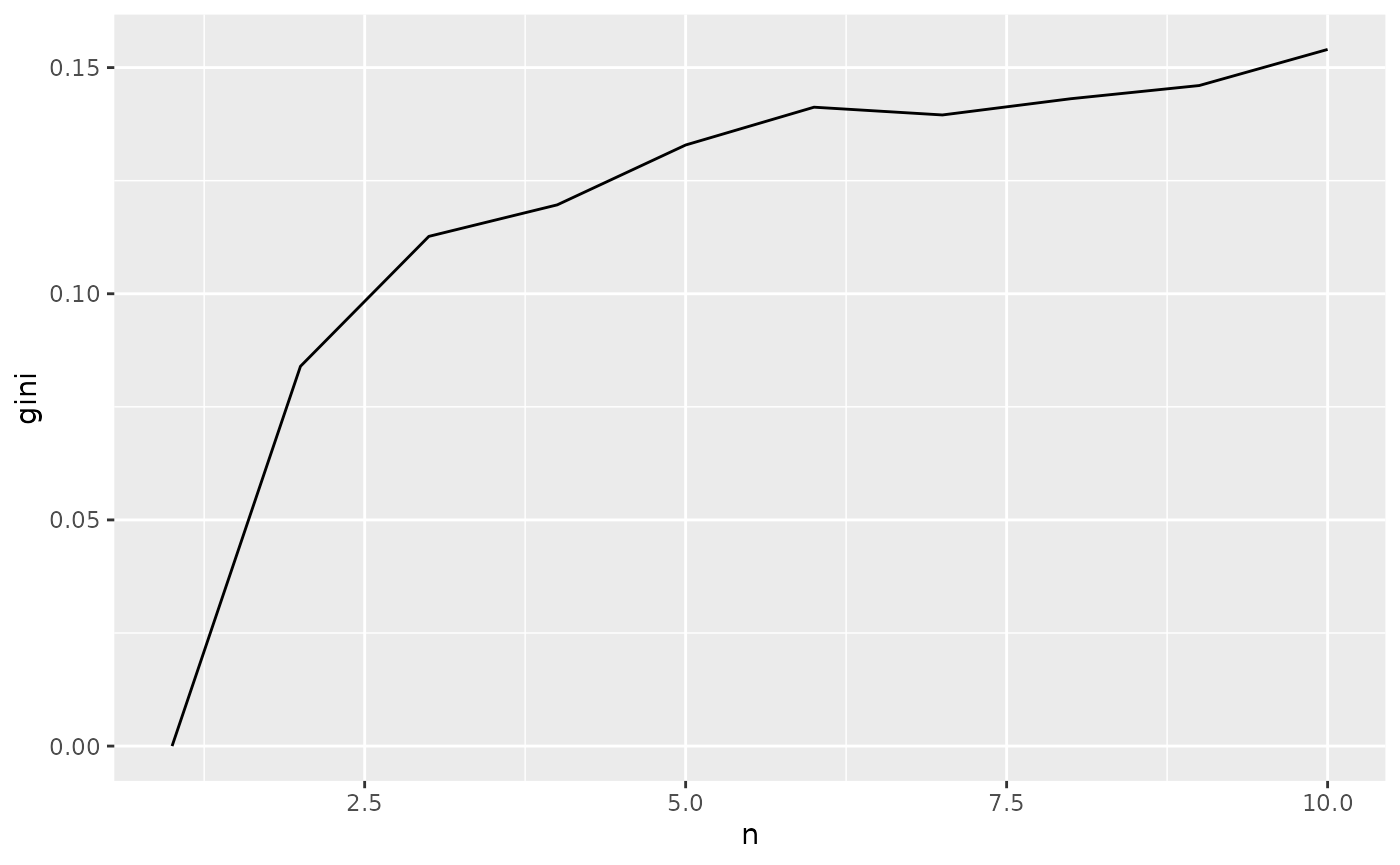
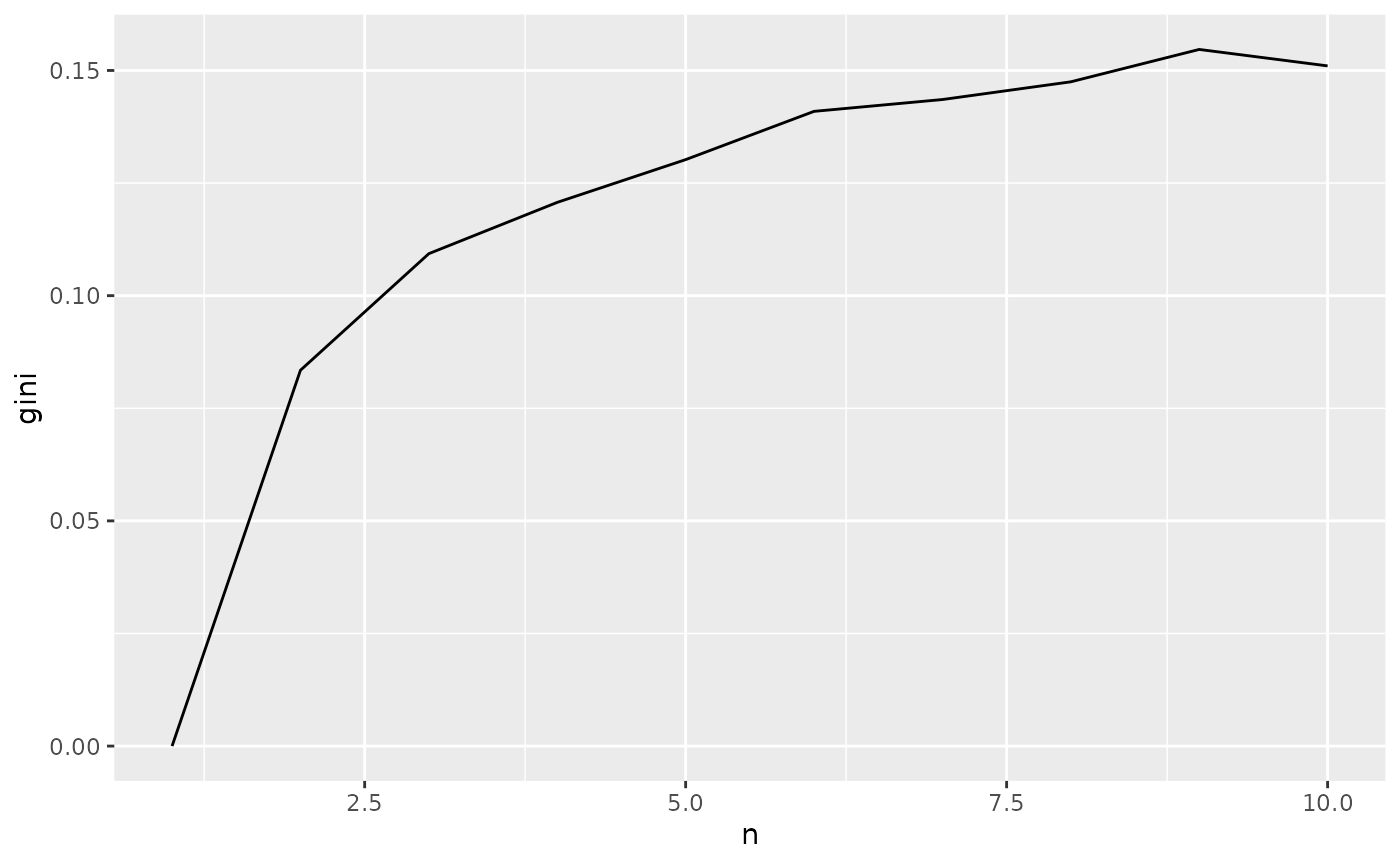
Deploying to gh-pages from @ mpadge/pkgstats-analyses@b3c7314154848b26adf2bf370c6a48f952b1c443 🚀

diff --git a/articles/pkgstats.html b/articles/pkgstats.html
@@ -26,7 +26,7 @@
     
     <a class="navbar-brand me-2" href="../index.html">pkgstatsAnalyses</a>
 
-    <small class="nav-text text-muted me-auto" data-bs-toggle="tooltip" data-bs-placement="bottom" title="">0.0.1.140</small>
+    <small class="nav-text text-muted me-auto" data-bs-toggle="tooltip" data-bs-placement="bottom" title="">0.0.1.142</small>
 
     
     <button class="navbar-toggler" type="button" data-bs-toggle="collapse" data-bs-target="#navbar" aria-controls="navbar" aria-expanded="false" aria-label="Toggle navigation">
@@ -67,7 +67,7 @@
       <img src="" class="logo" alt=""><h1>Historical Trends in R Package Structure and Interdependency on CRAN</h1>
                         <h4 data-toc-skip class="author">Mark Padgham &amp; Noam Ross</h4>
             
-            <h4 data-toc-skip class="date">2022-01-14</h4>
+            <h4 data-toc-skip class="date">2022-01-19</h4>
       
       <small class="dont-index">Source: <a href="https://github.com/mpadge/pkgstats-analyses/blob/HEAD/vignettes/pkgstats.Rmd" class="external-link"><code>vignettes/pkgstats.Rmd</code></a></small>
       <div class="d-none name"><code>pkgstats.Rmd</code></div>
@@ -273,15 +273,15 @@
 <div class="section level2">
 <h2 id="results">Results<a class="anchor" aria-label="anchor" href="#results"></a>
 </h2>
+<p>Many of the following results reveal pronounced changes broadly centered around 2010. It is important in interpreting such results to note that the largest public code hosting platform, GitHub, launched in 2008. This changes from that year onward are very likely influenced by the increased public accessibility of code, as discussed further below.</p>
 <div class="section level3">
 <h3 id="metadata">Metadata<a class="anchor" aria-label="anchor" href="#metadata"></a>
 </h3>
-<p>The relatively regulated process of CRAN submissions <span class="citation">(Decan, Mens, and Grosjean 2019)</span> is reflected in more regulated meta-data able to be extracted from package ‘DESCRIPTION’ files. Numbers of both authors and contributors have increased over time (Fig. 1A), with contributors having been rarely acknowledged at all prior to 2010 (two years after the launch of GitHub), increasing to an average of one acknowledged contributor per package in 2021.</p>
-<p>Numbers of unique licenses primarily reflect numbers of ways of declaring licenses, rather than actual numbers of licenses. Figure 1B shows a roughly linear increase in license declarations up to around 2007, followed by a pronounced drop and progression into a roughly stable range of somewhere over 50 distinct entries. The different ways of specifying the three versions of GPL licenses have accounted for over 83% of all CRAN packages, with the second most common type license being MIT, at 9.6%, followed by BSD at 2.0%. One of these three licenses are used in 95% of all CRAN packages.</p>
+<p>Numbers of both authors and contributors have increased over time (Fig. 1A), with contributors having been rarely acknowledged at all prior to 2010, increasing to an average of one acknowledged contributor per package in 2021. Numbers of unique licenses primarily reflect numbers of ways of declaring licenses, rather than numbers of actual licenses. Figure 1B shows a roughly linear increase in license declarations up to around 2007, followed by a pronounced drop and progression into a roughly stable range of somewhere over 50 distinct entries. The different ways of specifying the three versions of GPL licenses have accounted for over 83% of all CRAN packages, with the second most common type license being MIT, at 9.6%, followed by BSD at 2.0%. One of these three licenses are used in 95% of all CRAN packages.</p>
 <div class="figure">
 <img src="figures/fig01.png" alt=""><p class="caption"><strong>Figure 1.</strong> Annual developments of metadata from package ‘DESCRIPTION’ files.</p>
 </div>
-<p>The practice of translating messages within R packages into other languages has steadily declined in recent years (Fig. 2A), suggesting a pronounced increase in acceptance over the last 15 or so years of English as a globally standard language, and a concomitant decrease in active acknowledgement of other languages. (The <code>en@quot</code> translation entry is described in the <a href="https://cran.r-project.org/doc/manuals/R-admin.html#Localization-of-messages" class="external-link"><em>R Installation and Administration</em> Manual</a> as a translation which, “can be used in a UTF-8 locale to have American error messages with pairs of single quotes translated to Unicode directional quotes.”) Rates of decrease since 2008 equate to 1.5% fewer packages per year including translations, from a total of just over 20% of all packages in 2008, to barely over 1% in 2021. While rates of decrease have slowed somewhat in recent years, extrapolation of the preceding five years nevertheless suggests that the practice of offering translations will entirely disappear by 2023.</p>
+<p>The practice of translating messages within R packages into other languages has steadily declined in recent years (Fig. 2A), suggesting a pronounced increase in acceptance over the last 15 or so years of English as a globally standard language, and a concomitant decrease in active acknowledgement of other languages. (The <code>en@quot</code> translation entry in Fig. 2A is described in the <a href="https://cran.r-project.org/doc/manuals/R-admin.html#Localization-of-messages" class="external-link"><em>R Installation and Administration</em> Manual</a> as a translation which, “can be used in a UTF-8 locale to have American error messages with pairs of single quotes translated to Unicode directional quotes.”) Rates of decrease since 2008 equate to 1.5% fewer packages per year including translations, from a total of just over 20% of all packages in 2008, to barely over 1% in 2021. While rates of decrease have slowed somewhat in recent years, extrapolation of the preceding five years nevertheless suggests that the practice of offering translations will effectively disappear by 2023.</p>
 <div class="figure">
 <img src="figures/fig02.png" alt=""><p class="caption"><strong>Figure 2.</strong> (A) Annual frequencies of the top 10 translations. (B) Annual frequencies of the top 10 primary URL domains, with frequencies for GitHub divided by 20.</p>
 </div>
@@ -290,7 +290,7 @@
 <div class="section level3">
 <h3 id="package-structure-and-content">Package Structure and Content<a class="anchor" aria-label="anchor" href="#package-structure-and-content"></a>
 </h3>
-<p>The temporal development of numbers of files manifest several notable characteristics (Figure 3). Unsurprisingly, R packages have always been dominated by files in the <code>R/</code> directory, numbers of which increased considerably up to around 2010, after which they have generally stabilised at mean values of around 13-15 files (Fig. 3A). The <code>vignettes</code> directory is the only place within R packages in which numbers of files have remained relatively constant over the preceding 20+ years. Packages generally had very few files in the <code>inst</code> directory prior to 2010, after which they increased until around 2015, before decreasing again more recently. The two sub-directories in which numbers of files have increased most significantly are <code>src</code> and <code>tests</code>, with the latter increase particularly distinct, clearly indicating that packages have become progressively better tested.</p>
+<p>The temporal development of numbers of files manifest several notable characteristics (Figure 3). Unsurprisingly, R packages have always been dominated by files in the <code>R/</code> directory, numbers of which increased considerably up to around 2010, after which they have generally stabilised at mean values of around 13-15 files per package (Fig. 3A). The <code>vignettes</code> directory is the only place within R packages in which numbers of files have remained relatively constant over the preceding 20+ years. Packages generally had very few files in the <code>inst</code> directory prior to 2010, after which they increased until around 2015, before decreasing again more recently. The two sub-directories in which numbers of files have increased most significantly are <code>src</code> and <code>tests</code>, with the latter increase particularly distinct, clearly indicating that packages have become progressively better tested.</p>
 <div class="figure">
 <img src="figures/fig03.png" alt=""><p class="caption"><strong>Figure 3</strong> (A) Number of files in different diretories per year (with legend in panel B). Solid lines represent loess-smoothed interpolations, while dashed lines are raw annual values (not CRAN snapshots). (B) Proportional increases in numbers of files per release.</p>
 </div>
@@ -302,7 +302,7 @@
 <div class="section level4">
 <h4 id="annual-developments">Annual Developments<a class="anchor" aria-label="anchor" href="#annual-developments"></a>
 </h4>
-<p>Figure 4 shows the temporal evolution of a number of code metrics. These figures distinguish between the two primary kinds of R functions, exported and non-exported, and also between the main sub-directories of R packages described at the outset. Lines of Code (“LoC”) in the primary <code>/R</code> and <code>/src</code> directories broadly increased up to around 2005-2010, after which time LoC in these directories has slightly decreased, converging on just over 600 lines in both <code>/R</code> and <code>/src</code> directories. These trends are broadly reflected in LoC per function (Fig. 4B), excepting the early years of CRAN, during which functions often had well over 100 lines each, especially <code>src</code> functions defined in other languages (in those years, primarily Fortran and C). LoC per function have remained broadly stable for almost 20 years, at around 30 lines for all function types and languages. The slight decrease discernible since around 2015 amounts to one LoC less for exported, non-exported, and <code>/src</code> functions every 3.4, 8.5, and 1.5 years, respectively.</p>
+<p>Figure 4 shows the temporal evolution of a number of code metrics. These figures distinguish between the two primary kinds of R functions, exported and non-exported, and also between the main sub-directories of R packages described at the outset. Lines of Code (“LoC”) in the primary <code>/R</code> and <code>/src</code> sub-directories broadly increased up to around 2005-2010, after which time LoC in these directories has slightly decreased, converging on just over 600 lines in both <code>/R</code> and <code>/src</code> directories. These trends are broadly reflected in LoC per function (Fig. 4B), excepting the early years of CRAN, during which functions often had well over 100 lines each, especially <code>src</code> functions defined in other languages (in those years, primarily Fortran and C). LoC per function have remained broadly stable for almost 20 years, at around 30 lines for all function types and languages. The slight decrease discernible since around 2015 amounts to one LoC less for exported, non-exported, and <code>/src</code> functions every 3.4, 8.5, and 1.5 years, respectively.</p>
 <p>Total numbers of R functions initially increased until around 2007, peaking at just under 30 exported and over 50 non-exported functions per package (Fig. 4C). Numbers of exported R functions have decreased since then to around 17 exported and 40-45 non-exported functions per package in 2021. Numbers of functions defined in <code>/src</code> directories have followed broadly similar trajectories to exported <code>/R</code> functions, slightly decreasing since the early 2000’s to between 30-40 functions. Numbers of functions per source file in both <code>/R</code> and <code>/src</code> directories have nevertheless progressively decreased since the early 2000’s to now amount to less than four <code>/R</code> functions and just over five <code>/src</code> functions per file (Fig. 4D).</p>
 <div class="figure">
 <img src="figures/fig04.png" alt=""><p class="caption"><strong>Fig. 4</strong> Development of code metrics per year.</p>
@@ -315,7 +315,7 @@
 <div class="figure">
 <img src="figures/fig05.png" alt=""><p class="caption"><strong>Fig. 5</strong> Development of code metrics per release of each package.</p>
 </div>
-<p>These increases in LoC nevertheless corresponded to general decreases in LoC per function with increasing numbers of releases (Fig. 5B). Similar to the aggregate LoC measures of panel A, <code>/src</code> directories represent the only location where LoC manifest a distinct peak as packages matured, with LoC per <code>/src</code> function peaking slightly earlier (after around 40 releases) than total LoC (slightly over 50). In all directories, LoC per function either slightly increased or remained generally stable over the first 50 or so releases, beyond which functions in all directories clearly become considerably more streamlined, and LoC decreases markedly out to the 100th release. These decreases are nevertheless relatively minor, and amount to removing one LoC per function for every 5, 7, or 18 releases for exported R, non-exported R, or source functions, respectively.</p>
+<p>These increases in LoC nevertheless corresponded to general decreases in LoC per function with increasing numbers of releases (Fig. 5B). In all directories, LoC per function either slightly increased or remained generally stable over the first 50 or so releases, beyond which functions in all directories clearly become considerably more streamlined, and LoC decreases markedly out to the 100th release. Similar to the aggregate LoC measures of panel A, LoC in <code>/src</code> directories manifest a distinct peak as packages matured, with LoC per <code>/src</code> function peaking slightly earlier (after around 40 releases) than total LoC (slightly over 50). The decreases in the latter portions of Fig. 5B are nevertheless relatively minor, and amount to removing one LoC per function for every 5, 7, or 18 releases for exported R, non-exported R, and source function, respectively.</p>
 <p>The increasing total measures of LoC of panel A combined with decreasing LoC per function of panel B must mean that more functions are added as packages mature, which is precisely what Fig. 5C reveals. Packages initially contain less than ten exported functions on average, yet this increases over 10-fold to over 130 by the 100th release. Numbers of <code>/src</code> functions are initially higher, at around 20, and increase relatively less, to around 100 after 100 releases. Numbers of non-exported <code>/R</code> functions manifest the most pronounced increase, of over 15 times from 20 functions for initial releases, to well over 300 for the 100th release. Finally, numbers of functions per file show no clear trend for <code>src</code> code, remaining broadly stable at around six functions per file (Fig. 4D). In contrast, <code>/R</code> code files begin with 3-4 functions per file, and increase progressively to around eight functions per file after 100 releases, in the context of Figs. 4B-C clearly mostly due to breaking large non-exported functions down into multiple, smaller functions.</p>
 <p>Finally, the numbers of functions depicted in Fig. 4C actually counts any arbitrary code objects in all languages contained in <code>/src</code> directories, and so corresponds directly to the “modules” posited to increase according to the inverse-square “law” of software evolution <span class="citation">(Turski 1996, 2002; Lehman et al. 1997)</span>. The defining qualitative feature of such inverse–square growth is an initially highly concave form, with rates decreasing notably as packages mature. The trajectories of Fig. 4C appear in contrast strikingly linear, all manifesting trajectories which would be very poorly described by such an inverse-square form.</p>
 </div>
@@ -333,7 +333,7 @@
 </div>
 <p>Figure 6B shows the “coupling instability” of packages over time. As explained above, this is a measure of the extent to which packages depend on external functionality (efferent couplings) without other packages in turn depending on them (afferent couplings). Packages on CRAN were largely stable until around 2010, at a coupling instability of around 0.5, meaning numbers of functions from each package which were imported by other packages were roughly equal to numbers of external functions each package imported. Instability has increased markedly since that time, indicating that packages have become increasingly dependent on external functionality, while the average package is less likely to provide functionality used by other packages. The coupling instability over the preceding two years of around 80% implies that packages make on average eight calls to other packages for every two calls made to that package.</p>
 <p>As another aggregate measure of changes in package imports, <span class="citation">Decan, Mens, and Grosjean (2019)</span> analysed Gini coefficients, which are standardised aggregate differences in numbers of imports between packages. Systems in which all packages import equal numbers of dependencies have a Gini coefficient of zero, while systems with maximally heterogeneous numbers of imports have a Gini coefficient of one. While they concluded that Gini coefficients have increased over time for all seven of the package distribution systems they studied (including CRAN), at least over their time period of 2012-2017, our equivalent results are depicted in Fig. 6C, revealing a profound dependence on how annual values are defined and calculated. Using “annual values” through aggregating statistics only from packages uploaded in each year (solid lines) yields Gini coefficients which decrease over time, while calculating annual values as “CRAN snapshots” as the entire system would have existed for each year (dashed lines) yields Gini coefficients which increase over time. Their results appear to qualitative accord with our “CRAN snapshot” values for package dependency networks, although our values are only around half of theirs, suggesting that they perhaps neglected a final divisor of 2 in their calculations.</p>
-<p>Moreover, that panel depicts Gini coefficients calculated both from numbers of imported packages, and total numbers of external function calls. Numbers of function calls will only equal numbers of imported packages when only one function is used from each package, otherwise numbers of function calls must be greater, leading to larger Gini coefficients of inequality in numbers of external function calls between packages.</p>
+<p>Moreover, that panel depicts Gini coefficients calculated both from numbers of imported packages, and total numbers of external function calls. Numbers of function calls will only equal numbers of imported packages when only one function is used from each package, otherwise numbers of function calls must be greater, leading to larger Gini coefficients of inequality in numbers of external function calls between packages. Other than this expected difference in scale, results from both single-package imports and numbers of functions were qualitatively similar.</p>
 <p>Finally, figure 6D depicts changes in numbers of unique function calls from each package to the top ten contributed packages, defined as the ten packages with the largest total number of unique function calls from all packages throughout the history of CRAN. The top two packages of {ggplot2} and {dplyr} account for 16.6% of all function calls from all contributed packages over the time shown. Numbers of function calls are shown on a logarithmic scale, with numbers of calls to each of these packages increasing exponentially between 2013 and 2018, before levelling off or even slightly decreasing.</p>
 </div>
 <div class="section level4">
@@ -343,8 +343,8 @@
 <div class="figure">
 <img src="figures/fig07.png" alt=""><p class="caption"><strong>Fig. 7</strong> Dependency networks between packages over sequential releases. (A) Proportional change in numbers of calls to base and recommended packages between successive releases. Solid lines show loess-smoothed interpolations, while dashed lines show raw values (and not values from cran snapshots). (B) Coupling instability. (C) Average numbers of functions from each package imported by other packages, and averge numbers of times packages are imported by other packages.</p>
 </div>
-<p>Figure 7B shows the average trajectory of coupling instability for individual packages across the depicted numbers of sequential releases, which decreases very progressively as packages mature, as should be expected if packages are increasingly likely to be imported by other packages (that is, afferent coupling should generally increase). That figure also shows average numbers of efferent couplings, or numbers of outward calls from each package to other packages, which stay largely stable as packages develop. Increases in package stability thus arise as packages develop purely through being imported as dependencies by increasing numbers of other packages. This in turn suggests that the best way to counteract the increasing coupling instability of CRAN as a whole depicted in Fig. 6B would be to ensure that packages remain progressively developed, rather than abandoned after only a few releases.</p>
-<p>Finally, Fig. 7C shows progressions of both packages and individual functions being imported into other packages as a function of release sequence. The number of packages importing a package increases progressively with numbers of releases, as was already clear from Fig. 7B. Packages with less than ten releases are, on average, imported by very few other packages, while packages with 40 or more releases are imported by ten other packages on average. The second line on that figure nevertheless reveals that packages import on average only 1-2 functions from other packages, and that numbers of functions imported by other packages increase only marginally as packages mature.</p>
+<p>Figure 7B shows the average trajectory of coupling instability for individual packages across the depicted numbers of sequential releases, which decreases very progressively as packages mature, as should be expected if packages are increasingly likely to be imported by other packages (that is, afferent coupling should generally increase). That figure also shows average numbers of efferent couplings, or numbers of outward calls from each package to other packages, which stay largely stable as packages develop. Increases in package stability thus arise as packages develop purely through being imported as dependencies by increasing numbers of other packages. This in turn suggests that the best way to counteract the increasing coupling instability of CRAN as a whole depicted in Fig. 6B would be to ensure that packages remain progressively developed, rather than abandoned (or archived) after only a few releases.</p>
+<p>Finally, Fig. 7C shows progressions of both packages and individual functions being imported into other packages as a function of release sequence. The number of packages importing a package increases progressively with numbers of releases, as was already clear from Fig. 7B. Packages with less than ten releases are, on average, imported by very few other packages, while packages with 40 or more releases are imported by ten other packages on average. The second line on that figure nevertheless reveals that packages import on average only 1-2 functions from any given package, and that numbers of functions imported by other packages increase only marginally as packages mature.</p>
 <p>Coupled with the observed increases in numbers of exported functions as packages mature depicted in Fig. 5C, the slight increase in numbers of functions imported by other packages nevertheless suggests a relationship between total numbers of functions exported by a package, and numbers imported by other packages. Indeed, taking only the latest versions of all packages and relating these two values reveals that other packages are likely to import one additional function on average for every 2.8 additional functions exported by that package.</p>
 </div>
 </div>
@@ -383,19 +383,20 @@ Fig 8 but over package release instead of year
 <div class="section level3">
 <h3 id="code-formatting-and-documentation">Code formatting and Documentation<a class="anchor" aria-label="anchor" href="#code-formatting-and-documentation"></a>
 </h3>
-<p>We conclude these results with analyses generated by the internal Lines-of-Code routines of <code>pkgstats</code>, along with static analyses of the function documentation (<code>.Rd</code>) files. Proportions of blank and comment lines have remained markedly similar in both <code>/R</code> and <code>/src</code> directories over time, except for comment lines in <code>/R</code> code, which have increased dramatically since around 2010. This roughly corresponds to the first release of the {roxygen2} package which has indubitably done more than any other package to standardise documentation of R functions. This increase in <code>/R</code> documentation is likely a direct reflection of the widespread adoption of <code>roxygen2</code> as the documentation standard for R packages.</p>
+<p>We conclude these results with analyses generated by the internal Lines-of-Code routines of <code>pkgstats</code>, along with static analyses of the function documentation (<code>.Rd</code>) files. Proportions of blank and comment lines have remained markedly similar in both <code>/R</code> and <code>/src</code> directories over time, except for comment lines in <code>/R</code> code, which have increased dramatically since around 2010. This roughly corresponds to the first release of the {roxygen2} package which has indubitably done more than any other package to standardise documentation of R functions. This increase in <code>/R</code> documentation is likely a direct reflection of the widespread adoption of {roxygen2} as the documentation standard for R packages.</p>
 <div class="figure">
 <img src="figures/fig10.png" alt=""><p class="caption"><strong>Figure 10.</strong> Code formatting and documentation.</p>
 </div>
-<p>The relative proportion of white space in code lines has increased consistently yet very slightly over time, amount to an increase from slightly under 13% to slightly over 14.5%. The most dramatic development of Fig. 10B is clearly the decrease in the proportion of files with tab-indentation, from well over 60% before the year 2000 to barely over 10% today. Code indentation ignoring tabs increased until around 2005-2010, remaining constant at 3-3.5 spaces for many years before more recently declining to well under 3 spaces.</p>
-<p>Each R function in 1998 had an average of six parameters, yet this declined very rapidly to under four within two years. Numbers of parameters have progressively increased since then, yet still barely exceeding an average of four parameters per function. Parameter documentation has followed an almost identical trend, increasing from under 70 characters per parameter to just over 80. In contrast, total numbers of documentation lines per function initially increased until around 2010, at almost 60 lines, before decreasing more recently to 50 lines per function or less.</p>
-<p>Finally, the equivalent results analysed as a function of release sequence rather than year reveal that functions become markedly better documented as packages mature (Fig. 10D). Analogous to preceding results, the recent decrease in documentation lines per function likely reflects an increasing prevalence of recently released packages, while all packages uniformly expand function documentation as they mature, even though documentation of individual parameters does not greatly change.</p>
+<p>The relative proportion of white space in code lines has increased consistently yet very slightly over time, amounting to an increase from slightly under 13% to slightly over 14.5%. The most dramatic development of Fig. 10B is clearly the decrease in the proportion of files with tab-indentation, from well over 60% before the year 2000 to barely over 10% today. Ignoring tabs, code indentation increased until around 2005-2010, remaining constant at 3-3.5 spaces for many years before more recently declining to well under 3 spaces.</p>
+<p>Each R function in 1998 had an average of six parameters, yet this declined very rapidly to under four within two years (Fig. 10C). Numbers of parameters have progressively increased since then, yet still barely exceeding an average of four parameters per function. Parameter documentation has followed an almost identical trend, increasing from under 70 characters per parameter to just over 80. In contrast, total numbers of documentation lines per function initially increased until around 2010, at almost 60 lines, before decreasing more recently to 50 lines per function or less.</p>
+<p>The equivalent results analysed as a function of release sequence rather than year reveal that functions become markedly better documented as packages mature (Fig. 10D), although not through additional documentation of parameters. Analogous to preceding results, the recent decrease in documentation lines per function likely reflects an increasing prevalence of recently released packages which outweighs increases in function documentation as individual packages mature.</p>
 <p>Finally, contrasting panels C and D of Fig. 10 also reveals a likely influence of increasing dominance of recent packages on numbers of parameters per function. While this number has increased consistently over recent years (Fig. 10C), numbers of parameters also decrease markedly as packages mature, equating to an average of one parameter fewer in all functions after 58 releases. The equivalent annual effect from Fig. 10C would translate to one additional parameter every 46 years. The average interval between package releases over the duration of CRAN has been 207 days, according to which 58 releases would take 33 years. That comparison suggests that the effects of packages maturing in decreasing average numbers of parameters per function (still) slightly out-competes the counteracting effect of increasing average numbers of parameters per function through the increasing dominance of recently released packages.</p>
 </div>
 </div>
 <div class="section level2">
 <h2 id="discussion">Discussion<a class="anchor" aria-label="anchor" href="#discussion"></a>
 </h2>
+<p>The relatively regulated process of CRAN submissions <span class="citation">(Decan, Mens, and Grosjean 2019)</span> is reflected in more regulated meta-data able to be extracted from package ‘DESCRIPTION’ files.</p>
 <div class="section level3">
 <h3 id="dependency-networks">Dependency Networks<a class="anchor" aria-label="anchor" href="#dependency-networks"></a>
 </h3>

diff --git a/authors.html b/authors.html
@@ -10,7 +10,7 @@
     
     <a class="navbar-brand me-2" href="index.html">pkgstatsAnalyses</a>
 
-    <small class="nav-text text-muted me-auto" data-bs-toggle="tooltip" data-bs-placement="bottom" title="">0.0.1.140</small>
+    <small class="nav-text text-muted me-auto" data-bs-toggle="tooltip" data-bs-placement="bottom" title="">0.0.1.142</small>
 
     
     <button class="navbar-toggler" type="button" data-bs-toggle="collapse" data-bs-target="#navbar" aria-controls="navbar" aria-expanded="false" aria-label="Toggle navigation">
@@ -58,13 +58,13 @@
 
       <p>Padgham M (2022).
 <em>pkgstatsAnalyses: Analyses of 'pkgstats' Results for all CRAN Packages</em>.
-R package version 0.0.1.140, <a href="https://github.com/mpadge/pkgstats-analyses" class="external-link">https://github.com/mpadge/pkgstats-analyses</a>. 
+R package version 0.0.1.142, <a href="https://github.com/mpadge/pkgstats-analyses" class="external-link">https://github.com/mpadge/pkgstats-analyses</a>. 
 </p>
       <pre>@Manual{,
   title = {pkgstatsAnalyses: Analyses of 'pkgstats' Results for all CRAN Packages},
   author = {Mark Padgham},
   year = {2022},
-  note = {R package version 0.0.1.140},
+  note = {R package version 0.0.1.142},
   url = {https://github.com/mpadge/pkgstats-analyses},
 }</pre>
     </div>

diff --git a/reference/collate_temp_pypi_files.html b/reference/collate_temp_pypi_files.html
@@ -14,7 +14,7 @@ all_pypi."><!-- mathjax --><script src="https://cdnjs.cloudflare.com/ajax/libs/m
     
     <a class="navbar-brand me-2" href="../index.html">pkgstatsAnalyses</a>
 
-    <small class="nav-text text-muted me-auto" data-bs-toggle="tooltip" data-bs-placement="bottom" title="">0.0.1.140</small>
+    <small class="nav-text text-muted me-auto" data-bs-toggle="tooltip" data-bs-placement="bottom" title="">0.0.1.142</small>
 
     
     <button class="navbar-toggler" type="button" data-bs-toggle="collapse" data-bs-target="#navbar" aria-controls="navbar" aria-expanded="false" aria-label="Toggle navigation">

diff --git a/reference/coupling_dependencies.html b/reference/coupling_dependencies.html
@@ -14,7 +14,7 @@ and to columns for each package."><!-- mathjax --><script src="https://cdnjs.clo
     
     <a class="navbar-brand me-2" href="../index.html">pkgstatsAnalyses</a>
 
-    <small class="nav-text text-muted me-auto" data-bs-toggle="tooltip" data-bs-placement="bottom" title="">0.0.1.140</small>
+    <small class="nav-text text-muted me-auto" data-bs-toggle="tooltip" data-bs-placement="bottom" title="">0.0.1.142</small>
 
     
     <button class="navbar-toggler" type="button" data-bs-toggle="collapse" data-bs-target="#navbar" aria-controls="navbar" aria-expanded="false" aria-label="Toggle navigation">

diff --git a/reference/couplings_releases.html b/reference/couplings_releases.html
@@ -14,7 +14,7 @@ takes around 15 minutes to calculate, so is not worth doing in parallel here."><
     
     <a class="navbar-brand me-2" href="../index.html">pkgstatsAnalyses</a>
 
-    <small class="nav-text text-muted me-auto" data-bs-toggle="tooltip" data-bs-placement="bottom" title="">0.0.1.140</small>
+    <small class="nav-text text-muted me-auto" data-bs-toggle="tooltip" data-bs-placement="bottom" title="">0.0.1.142</small>
 
     
     <button class="navbar-toggler" type="button" data-bs-toggle="collapse" data-bs-target="#navbar" aria-controls="navbar" aria-expanded="false" aria-label="Toggle navigation">

diff --git a/reference/dependencies.html b/reference/dependencies.html
@@ -13,7 +13,7 @@ data.'><!-- mathjax --><script src="https://cdnjs.cloudflare.com/ajax/libs/mathj
     
     <a class="navbar-brand me-2" href="../index.html">pkgstatsAnalyses</a>
 
-    <small class="nav-text text-muted me-auto" data-bs-toggle="tooltip" data-bs-placement="bottom" title="">0.0.1.140</small>
+    <small class="nav-text text-muted me-auto" data-bs-toggle="tooltip" data-bs-placement="bottom" title="">0.0.1.142</small>
 
     
     <button class="navbar-toggler" type="button" data-bs-toggle="collapse" data-bs-target="#navbar" aria-controls="navbar" aria-expanded="false" aria-label="Toggle navigation">

diff --git a/reference/transform_pkgstats_data.html b/reference/transform_pkgstats_data.html
@@ -12,7 +12,7 @@ many of these to relative proportions."><!-- mathjax --><script src="https://cdn
     
     <a class="navbar-brand me-2" href="../index.html">pkgstatsAnalyses</a>
 
-    <small class="nav-text text-muted me-auto" data-bs-toggle="tooltip" data-bs-placement="bottom" title="">0.0.1.140</small>
+    <small class="nav-text text-muted me-auto" data-bs-toggle="tooltip" data-bs-placement="bottom" title="">0.0.1.142</small>
 
     
     <button class="navbar-toggler" type="button" data-bs-toggle="collapse" data-bs-target="#navbar" aria-controls="navbar" aria-expanded="false" aria-label="Toggle navigation">

diff --git a/404.html b/404.html
@@ -24,7 +24,7 @@
     
     <a class="navbar-brand me-2" href="https://mpadge.github.io/pkgstats-analyses/index.html">pkgstatsAnalyses</a>
 
-    <small class="nav-text text-muted me-auto" data-bs-toggle="tooltip" data-bs-placement="bottom" title="">0.0.1.140</small>
+    <small class="nav-text text-muted me-auto" data-bs-toggle="tooltip" data-bs-placement="bottom" title="">0.0.1.142</small>
 
     
     <button class="navbar-toggler" type="button" data-bs-toggle="collapse" data-bs-target="#navbar" aria-controls="navbar" aria-expanded="false" aria-label="Toggle navigation">

diff --git a/articles/figures/fig01.html b/articles/figures/fig01.html
@@ -26,7 +26,7 @@
     
     <a class="navbar-brand me-2" href="../../index.html">pkgstatsAnalyses</a>
 
-    <small class="nav-text text-muted me-auto" data-bs-toggle="tooltip" data-bs-placement="bottom" title="">0.0.1.140</small>
+    <small class="nav-text text-muted me-auto" data-bs-toggle="tooltip" data-bs-placement="bottom" title="">0.0.1.142</small>
 
     
     <button class="navbar-toggler" type="button" data-bs-toggle="collapse" data-bs-target="#navbar" aria-controls="navbar" aria-expanded="false" aria-label="Toggle navigation">

diff --git a/articles/figures/fig02.html b/articles/figures/fig02.html
@@ -26,7 +26,7 @@
     
     <a class="navbar-brand me-2" href="../../index.html">pkgstatsAnalyses</a>
 
-    <small class="nav-text text-muted me-auto" data-bs-toggle="tooltip" data-bs-placement="bottom" title="">0.0.1.140</small>
+    <small class="nav-text text-muted me-auto" data-bs-toggle="tooltip" data-bs-placement="bottom" title="">0.0.1.142</small>
 
     
     <button class="navbar-toggler" type="button" data-bs-toggle="collapse" data-bs-target="#navbar" aria-controls="navbar" aria-expanded="false" aria-label="Toggle navigation">

diff --git a/articles/figures/fig03.html b/articles/figures/fig03.html
@@ -26,7 +26,7 @@
     
     <a class="navbar-brand me-2" href="../../index.html">pkgstatsAnalyses</a>
 
-    <small class="nav-text text-muted me-auto" data-bs-toggle="tooltip" data-bs-placement="bottom" title="">0.0.1.140</small>
+    <small class="nav-text text-muted me-auto" data-bs-toggle="tooltip" data-bs-placement="bottom" title="">0.0.1.142</small>
 
     
     <button class="navbar-toggler" type="button" data-bs-toggle="collapse" data-bs-target="#navbar" aria-controls="navbar" aria-expanded="false" aria-label="Toggle navigation">

diff --git a/articles/figures/fig04.html b/articles/figures/fig04.html
@@ -26,7 +26,7 @@
     
     <a class="navbar-brand me-2" href="../../index.html">pkgstatsAnalyses</a>
 
-    <small class="nav-text text-muted me-auto" data-bs-toggle="tooltip" data-bs-placement="bottom" title="">0.0.1.140</small>
+    <small class="nav-text text-muted me-auto" data-bs-toggle="tooltip" data-bs-placement="bottom" title="">0.0.1.142</small>
 
     
     <button class="navbar-toggler" type="button" data-bs-toggle="collapse" data-bs-target="#navbar" aria-controls="navbar" aria-expanded="false" aria-label="Toggle navigation">
